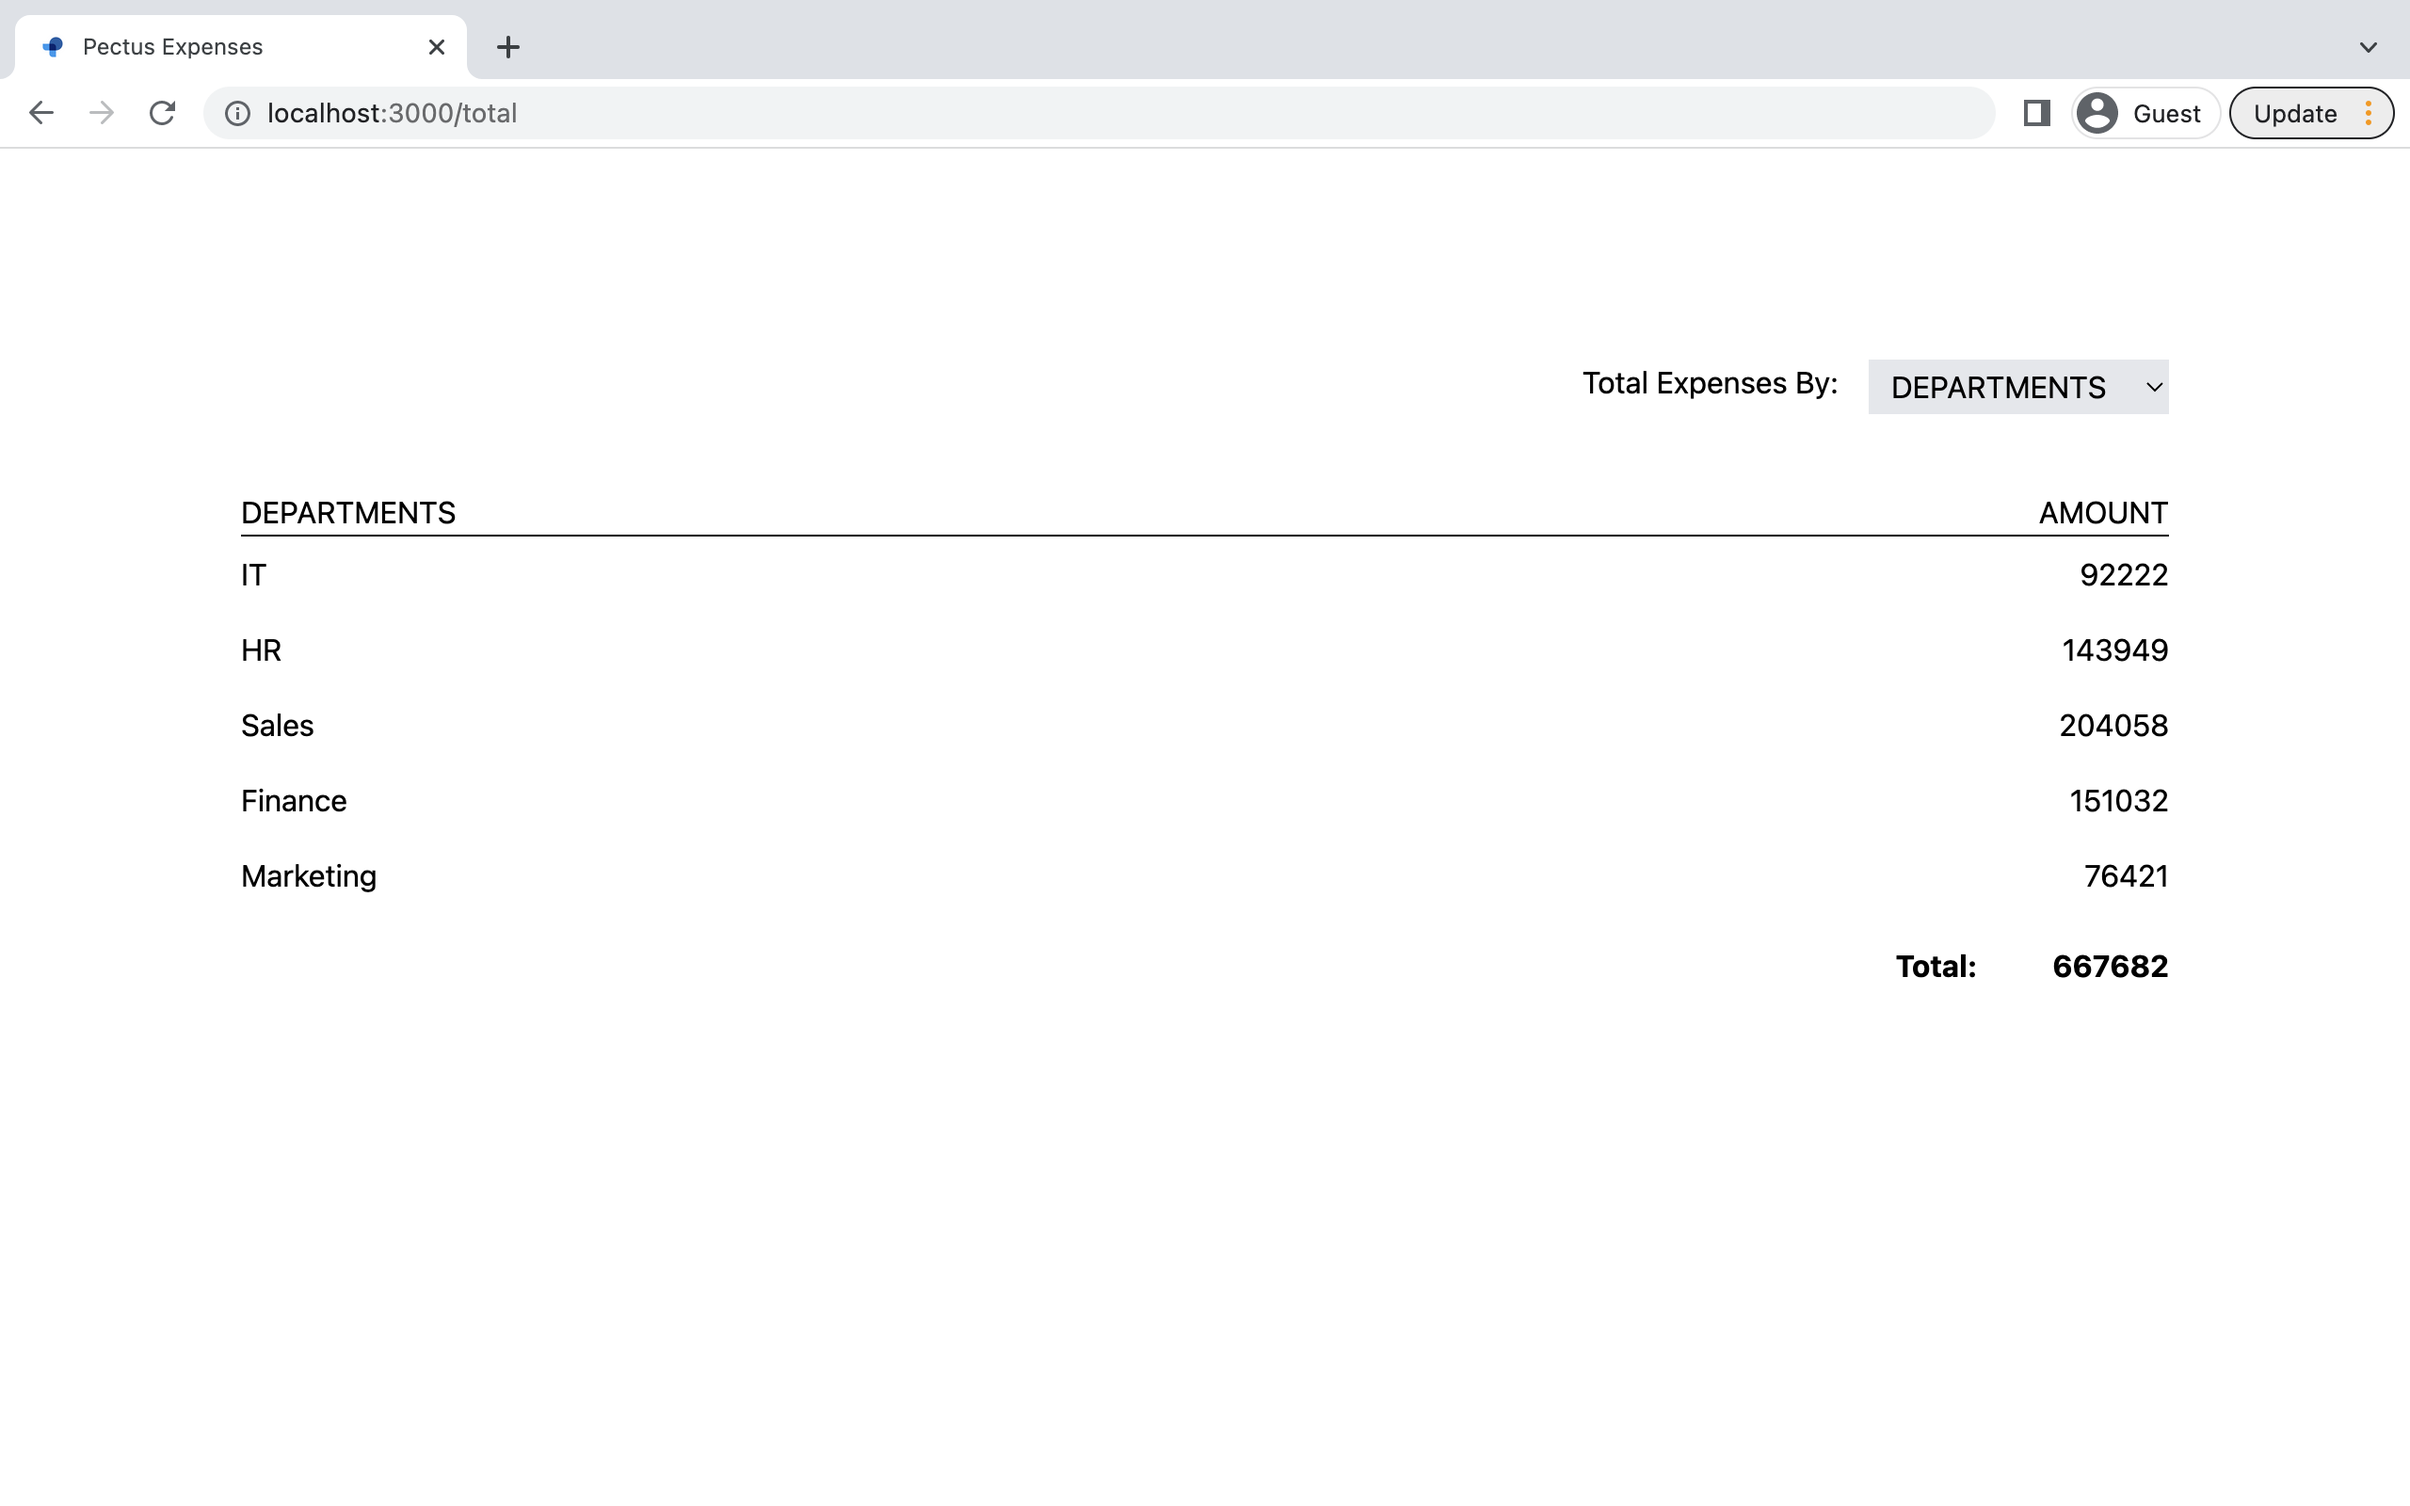
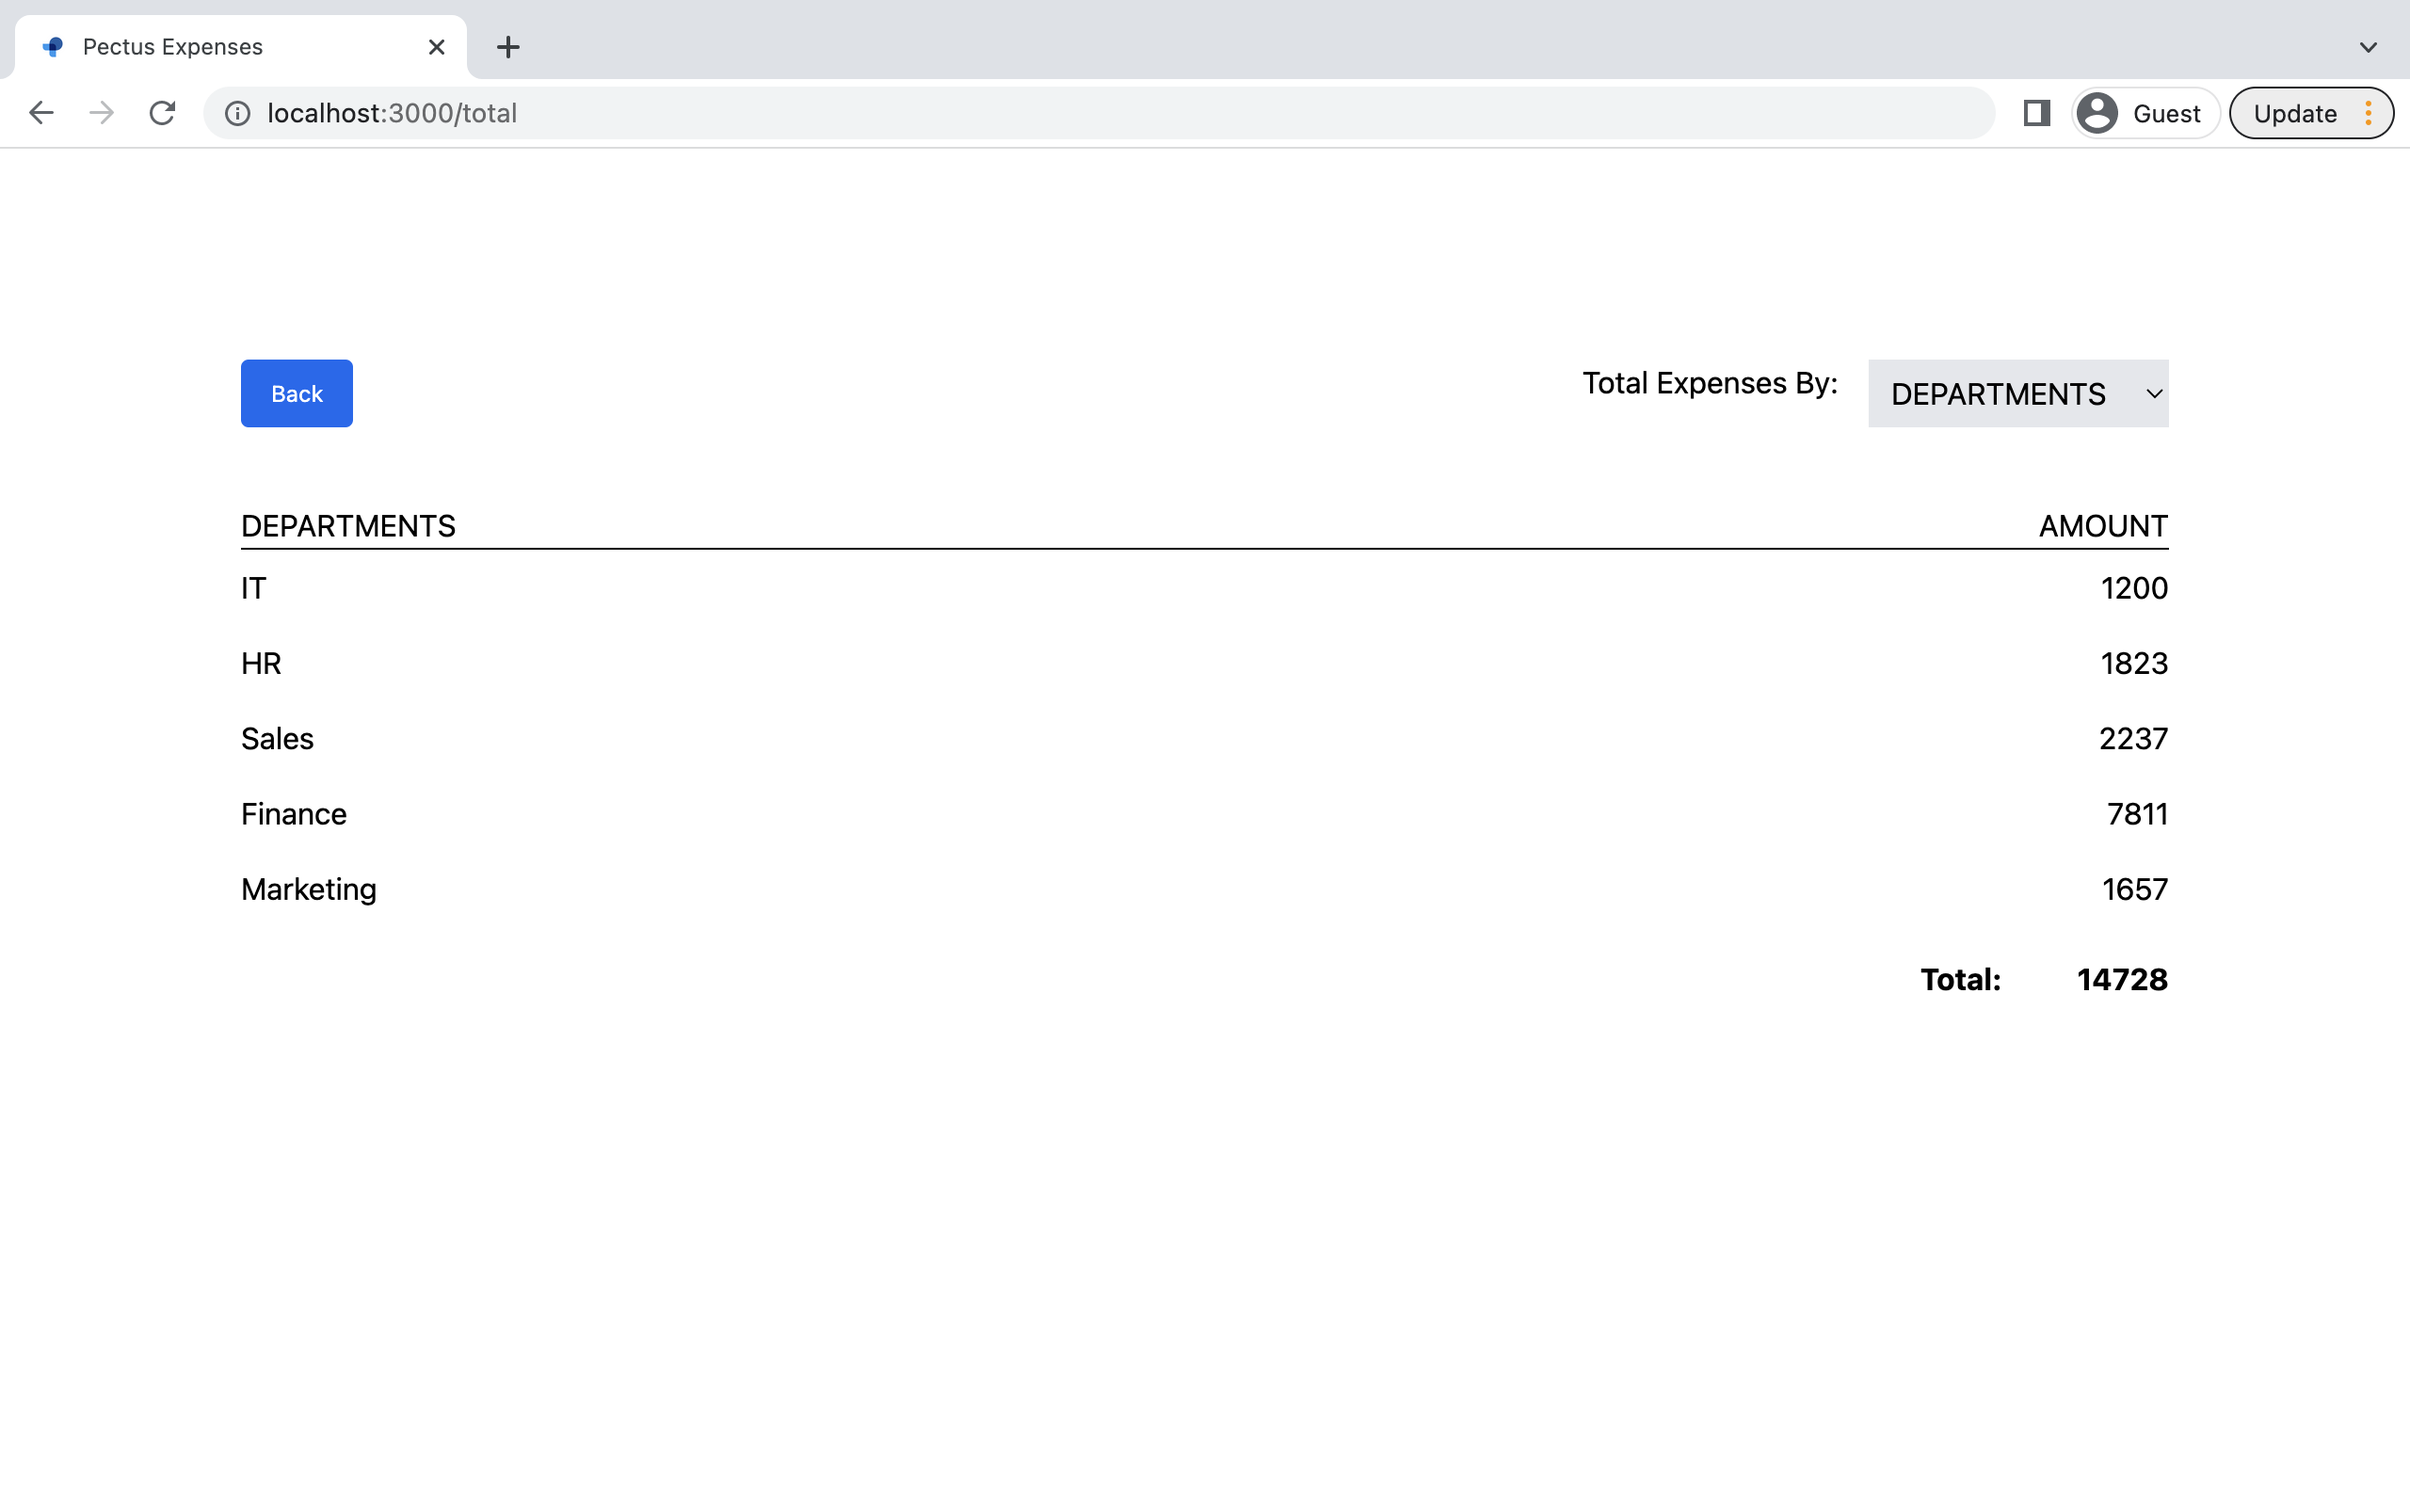
more refacoring

diff --git a/src/components/Total.tsx b/src/components/Total.tsx
@@ -1,4 +1,5 @@
 import React, { useState, useEffect, useContext } from "react";
+import { useNavigate } from "react-router-dom";
 import DropDown from "./DropDown";
 import { Expense } from "../types/model";
 import { ExpensesContext } from "../store/expenses-context";
@@ -13,6 +14,7 @@ function Total({ fields, data }: Prop) {
   // dropdown state
   const [value, setValue] = useState("departments");
   const [dropdown, setDropdown] = useState(false);
+  const navigate = useNavigate();
   const options = fields.filter((field) => field !== "amount");
   // add data to context
   useEffect(() => {
@@ -31,18 +33,30 @@ function Total({ fields, data }: Prop) {
       data-testid="totalcontent"
       className="flex flex-col items-center w-full justify-center my-28"
     >
-      <div className="flex w-4/5 justify-end">
-        <p className="mr-4">Total Expenses By:</p>
-        <select
-          className=" px-2 py-1 bg-gray-200 uppercase outline-none"
-          onChange={(e) => setValue(e.target.value)}
-        >
-          {options.map((opt) => (
-            <option key={opt} value={opt}>
-              {opt}
-            </option>
-          ))}
-        </select>
+      <div className="flex w-4/5 justify-between">
+        <div>
+          <button
+            type="button"
+            onClick={() => navigate(-1)}
+            className="bg-blue-600 px-4 py-2.5 rounded text-xs text-white
+            hover:bg-blue-700 hover:shadow-lg"
+          >
+            Back
+          </button>
+        </div>
+        <div className="flex">
+          <p className="mr-4">Total Expenses By:</p>
+          <select
+            className=" px-2 py-1 bg-gray-200 uppercase outline-none"
+            onChange={(e) => setValue(e.target.value)}
+          >
+            {options.map((opt) => (
+              <option key={opt} value={opt}>
+                {opt}
+              </option>
+            ))}
+          </select>
+        </div>
       </div>
       {dropdown && <DropDown category={value} />}
     </div>

diff --git a/src/components/util/util.ts b/src/components/util/util.ts
@@ -1,24 +1,23 @@
-// @ts-nocheck
-
-const getValues = (category, data) => {
+const getValues = (category: string, data: {}[]) => {
   const values = [];
   // reduce the data array into categories
-  const newData = data.reduce(
-    (cache, expense) => ({
+  const newData: { [key: string]: any } = data.reduce(
+    (cache: { [key: string]: string }, expense: { [key: string]: string }) => ({
       ...cache,
       [expense[category]]:
-        expense[category] in cache
-          ? cache[expense[category]].concat(expense)
-          : [expense],
+        expense[category] in cache ? cache[expense[category]] : [expense],
     }),
     {}
   );
   //  loops thru the categories and adds the individual amounts
   for (const key in newData) {
     if (newData.hasOwnProperty(key)) {
-      const result = newData[key].reduce((acc, obj) => {
-        return acc + Number(obj.amount.replace(/[^0-9.-]+/g, ""));
-      }, 0);
+      const result = newData[key].reduce(
+        (acc: number, obj: { [key: string]: string }) => {
+          return acc + Number(obj.amount.replace(/[^0-9.-]+/g, ""));
+        },
+        0
+      );
       values.push({ key, result });
     }
   }
